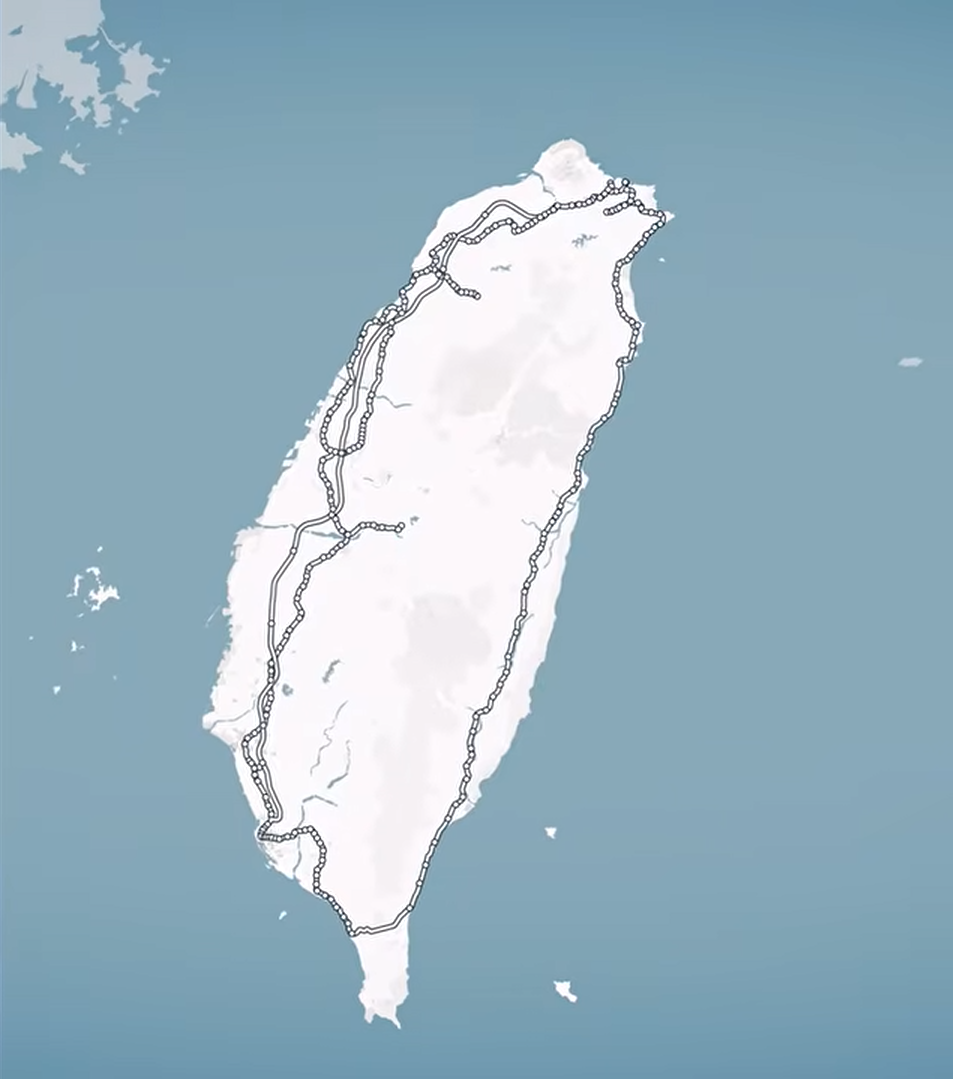
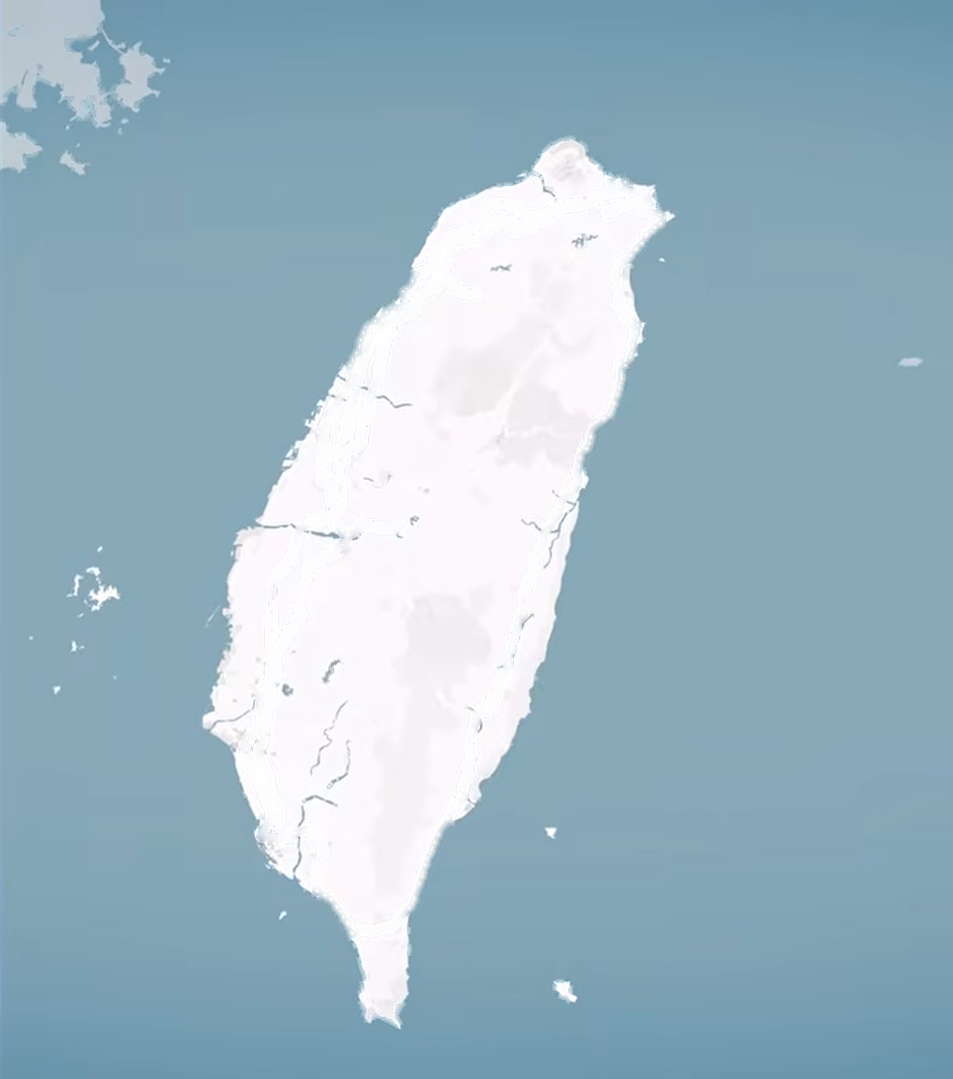
fix scrolling and some minor style changes

diff --git a/components/Map/useMapViewportTransform.ts b/components/Map/useMapViewportTransform.ts
@@ -1,5 +1,5 @@
-import { useEffect, useState } from "react";
-import { LayoutChangeEvent, Platform } from "react-native";
+import { useCallback, useEffect, useRef, useState } from "react";
+import { LayoutChangeEvent, Platform, type View } from "react-native";
 import { Gesture } from "react-native-gesture-handler";
 import { useAnimatedStyle, useSharedValue } from "react-native-reanimated";
 
@@ -29,6 +29,11 @@ type WheelEventLike = {
   stopPropagation?: () => void;
 };
 
+type WheelEventTarget = {
+  addEventListener: (type: "wheel", listener: (event: WheelEventLike) => void, options?: { passive?: boolean }) => void;
+  removeEventListener: (type: "wheel", listener: (event: WheelEventLike) => void) => void;
+};
+
 export function useMapViewportTransform({
   challenges,
   gameState,
@@ -50,6 +55,7 @@ export function useMapViewportTransform({
   useMobileFrame: boolean;
   useTightFrame: boolean;
 }) {
+  const mapViewportRef = useRef<View | null>(null);
   const [viewportSize, setViewportSize] = useState({ height: 0, width: 0 });
   const scale = useSharedValue(1);
   const savedScale = useSharedValue(1);
@@ -66,7 +72,7 @@ export function useMapViewportTransform({
   const renderedMapWidth = Math.max(mapWidth * fitScale, 1);
   const renderedMapHeight = Math.max(mapHeight * fitScale, 1);
 
-  const clampOffset = (offset: number, contentSize: number, viewportContentSize: number, zoom: number) => {
+  const clampOffset = useCallback((offset: number, contentSize: number, viewportContentSize: number, zoom: number) => {
     "worklet";
 
     if (zoom <= MIN_MAP_ZOOM) {
@@ -76,7 +82,7 @@ export function useMapViewportTransform({
     const maxOffset = Math.max(0, (contentSize * zoom - viewportContentSize) / 2);
 
     return Math.min(Math.max(offset, -maxOffset), maxOffset);
-  };
+  }, []);
 
   useEffect(() => {
     if ((!useMobileFrame && !useTightFrame) || fitScale <= 0 || hasSetInitialZoom.value) {
@@ -131,6 +137,7 @@ export function useMapViewportTransform({
     hasSetInitialZoom.value = true;
   }, [
     challenges,
+    clampOffset,
     fitScale,
     gameState.game.status,
     hasSetInitialZoom,
@@ -151,7 +158,7 @@ export function useMapViewportTransform({
     viewportSize.width,
   ]);
 
-  const zoomAroundPoint = (nextScale: number, focalX: number, focalY: number) => {
+  const zoomAroundPoint = useCallback((nextScale: number, focalX: number, focalY: number) => {
     "worklet";
 
     const scaleRatio = nextScale / scale.value;
@@ -171,7 +178,7 @@ export function useMapViewportTransform({
       viewportSize.height,
       nextScale,
     );
-  };
+  }, [clampOffset, renderedMapHeight, renderedMapWidth, scale, translateX, translateY, viewportSize.height, viewportSize.width]);
 
   const mapTransformStyle = useAnimatedStyle(() => ({
     transform: [
@@ -260,7 +267,7 @@ export function useMapViewportTransform({
 
   const mapGesture = Gesture.Exclusive(tapGesture, Gesture.Simultaneous(panGesture, pinchGesture));
 
-  const handleMapWheel = (event: WheelEventLike) => {
+  const handleMapWheel = useCallback((event: WheelEventLike) => {
     event.preventDefault?.();
     event.stopPropagation?.();
 
@@ -275,15 +282,37 @@ export function useMapViewportTransform({
     savedScale.value = nextScale;
     savedTranslateX.value = translateX.value;
     savedTranslateY.value = translateY.value;
-  };
+  }, [
+    savedScale,
+    savedTranslateX,
+    savedTranslateY,
+    scale,
+    translateX,
+    translateY,
+    viewportSize.height,
+    viewportSize.width,
+    zoomAroundPoint,
+  ]);
+
+  useEffect(() => {
+    if (Platform.OS !== "web") {
+      return;
+    }
+
+    const target = mapViewportRef.current as unknown as WheelEventTarget | null;
+
+    target?.addEventListener("wheel", handleMapWheel, { passive: false });
+
+    return () => {
+      target?.removeEventListener("wheel", handleMapWheel);
+    };
+  }, [handleMapWheel]);
 
   const mapWebWheelProps =
     Platform.OS === "web"
       ? {
           onMouseEnter: () => onHoverChange(true),
           onMouseLeave: () => onHoverChange(false),
-          onWheel: handleMapWheel,
-          onWheelCapture: handleMapWheel,
         }
       : {};
 
@@ -292,6 +321,7 @@ export function useMapViewportTransform({
     handleViewportLayout,
     mapGesture,
     mapTransformStyle,
+    mapViewportRef,
     mapWebWheelProps,
     renderedMapHeight,
     renderedMapWidth,

diff --git a/components/Map/mapStyles.ts b/components/Map/mapStyles.ts
@@ -34,9 +34,7 @@ export const mapStyles = StyleSheet.create({
     borderWidth: 2,
     height: 30,
     justifyContent: "center",
-    shadowColor: "#000000",
-    shadowOpacity: 0.2,
-    shadowRadius: 5,
+    boxShadow: "0 2px 5px rgba(0, 0, 0, 0.2)",
     width: 30,
   },
   challengeMarkerText: {
@@ -296,9 +294,7 @@ export const mapStyles = StyleSheet.create({
     borderRadius: 8,
     borderWidth: 2,
     height: 16,
-    shadowColor: "#000000",
-    shadowOpacity: 0.22,
-    shadowRadius: 4,
+    boxShadow: "0 2px 4px rgba(0, 0, 0, 0.22)",
     width: 16,
   },
   teamSummaryList: {

diff --git a/components/Map/MapMarkers.tsx b/components/Map/MapMarkers.tsx
@@ -27,9 +27,9 @@ export function ChallengeMarkers({
     <View
       accessibilityLabel={`${challenge.name}, ${getChallengeValueLabel(challenge)}`}
       key={challenge.id}
-      pointerEvents="none"
       style={[
         mapStyles.markerTouchTarget,
+        { pointerEvents: "none" },
         {
           left: scaleCoordinate(challenge.xCoordinate, mapWidth, renderedMapWidth),
           top: scaleCoordinate(challenge.yCoordinate, mapHeight, renderedMapHeight),
@@ -74,9 +74,9 @@ export function StationMarkers({
       <View
         accessibilityLabel={station.name}
         key={station.id}
-        pointerEvents="none"
         style={[
           mapStyles.markerTouchTarget,
+          { pointerEvents: "none" },
           {
             left: scaleCoordinate(station.xCoordinate, mapWidth, renderedMapWidth),
             top: scaleCoordinate(station.yCoordinate, mapHeight, renderedMapHeight),

diff --git a/components/Map/MapViewport.tsx b/components/Map/MapViewport.tsx
@@ -41,6 +41,7 @@ export function MapViewport({
     handleViewportLayout,
     mapGesture,
     mapTransformStyle,
+    mapViewportRef,
     mapWebWheelProps,
     renderedMapHeight,
     renderedMapWidth,
@@ -61,6 +62,7 @@ export function MapViewport({
     <GestureDetector gesture={mapGesture}>
       <View
         onLayout={handleViewportLayout}
+        ref={mapViewportRef}
         style={[
           mapStyles.viewport,
           useTightFrame && mapStyles.viewportTight,